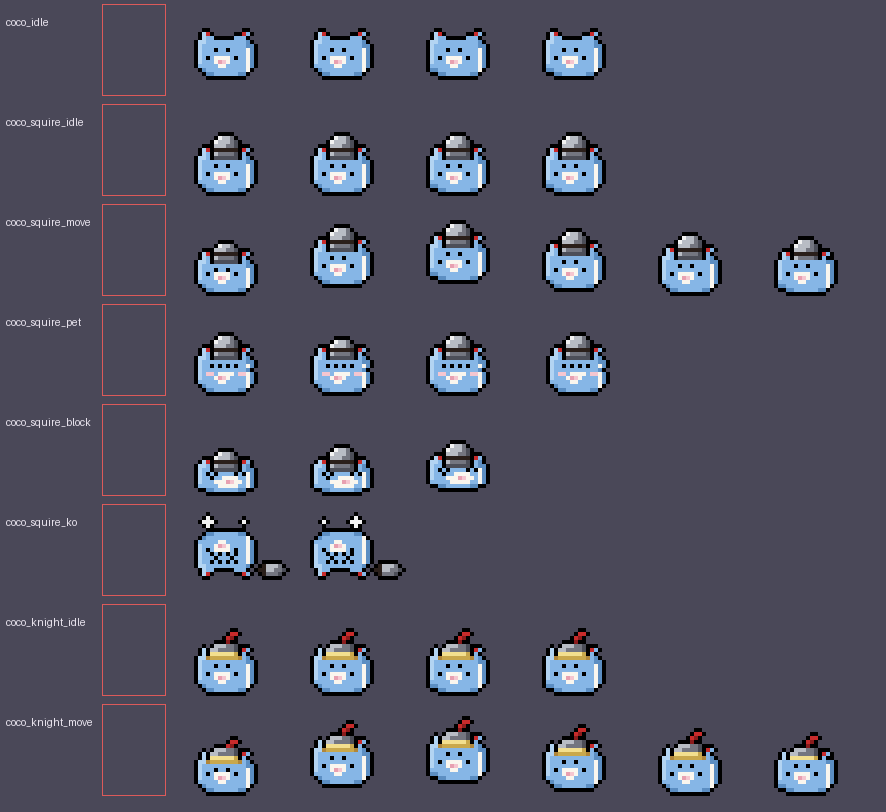
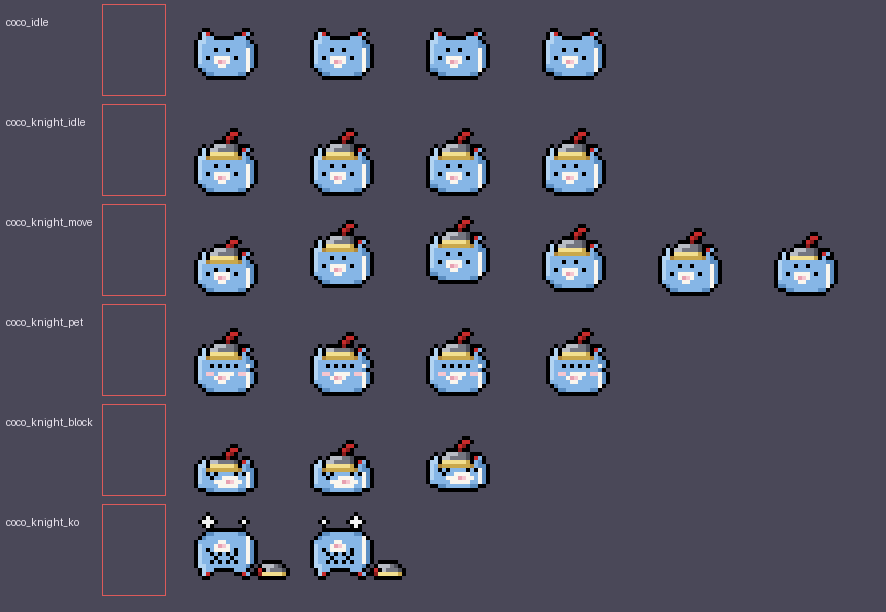
Coco wears the gold knight helmet for every Junkan form (user); pot helmet removed

diff --git a/tools/make_art.py b/tools/make_art.py
@@ -188,10 +188,6 @@ def gun_and_items():
     for clip, frames in (('idle', V4.COCO_KNIGHT_IDLE), ('move', V4.COCO_KNIGHT_MOVE), ('pet', V4.COCO_KNIGHT_PET),
                          ('block', V4.COCO_KNIGHT_BLOCK), ('ko', V4.COCO_KNIGHT_KO)):
         write_clip(os.path.join(comp, 'knight_' + clip), margin(frames), 'coco_knight_' + clip, body=True)
-    # 2.16.3 Squire pot helmet (Ser Junkan below Holy Knight), same swap
-    for clip, frames in (('idle', V4.COCO_SQUIRE_IDLE), ('move', V4.COCO_SQUIRE_MOVE), ('pet', V4.COCO_SQUIRE_PET),
-                         ('block', V4.COCO_SQUIRE_BLOCK), ('ko', V4.COCO_SQUIRE_KO)):
-        write_clip(os.path.join(comp, 'squire_' + clip), margin(frames), 'coco_squire_' + clip, body=True)
     save(V4.SQUEAKER_ICON, os.path.join(items, 'squeaker_icon.png'))
     vfx = os.path.join(RES, 'VFX')
     clean(vfx)
@@ -235,12 +231,11 @@ def previews():
            [U.HAIRBALL] + V4.COCO_IDLE[:2] + V4.COCO_MOVE + [V4.BOWL_PICKUP] + V4.FUR_PUFF + V4.LOVE_BURST + U.FOYER_APPEAR,
            V5.FUR_HALO + [V5.PUFFED_ICON] + V5.ANGER_MARKS],
           os.path.join(PREVIEW, 'ui-sheet.png'), scale=5)
-    # Coco's Squire helmets: plain / pot helmet (below Holy Knight) / gold plumed helmet, runtime outline simulated
-    V.strip_sheet([('coco_idle', V4.COCO_IDLE), ('coco_squire_idle', V4.COCO_SQUIRE_IDLE), ('coco_squire_move', V4.COCO_SQUIRE_MOVE),
-                   ('coco_squire_pet', V4.COCO_SQUIRE_PET), ('coco_squire_block', V4.COCO_SQUIRE_BLOCK), ('coco_squire_ko', V4.COCO_SQUIRE_KO),
-                   ('coco_knight_idle', V4.COCO_KNIGHT_IDLE), ('coco_knight_move', V4.COCO_KNIGHT_MOVE)],
+    # Coco with Ser Junkan (Squire): plain / gold plumed knight helmet, runtime outline simulated
+    V.strip_sheet([('coco_idle', V4.COCO_IDLE), ('coco_knight_idle', V4.COCO_KNIGHT_IDLE), ('coco_knight_move', V4.COCO_KNIGHT_MOVE),
+                   ('coco_knight_pet', V4.COCO_KNIGHT_PET), ('coco_knight_block', V4.COCO_KNIGHT_BLOCK), ('coco_knight_ko', V4.COCO_KNIGHT_KO)],
                   os.path.join(PREVIEW, 'coco-helmets.png'), scale=4)
-    V.scale_check([V4.COCO_IDLE_1, V4.SQUIRE_IDLE_1, V4.KNIGHT_IDLE_1], os.path.join(PREVIEW, 'coco-helmets-scale.png'))
+    V.scale_check([V4.COCO_IDLE_1, V4.KNIGHT_IDLE_1], os.path.join(PREVIEW, 'coco-helmets-scale.png'))
     import weapon_preview   # weapon alignment sheets (grip, muzzle, aim, reach) from tools/weapon_layout.py
     weapon_preview.main()
 

diff --git a/tools/art_v4.py b/tools/art_v4.py
@@ -402,51 +402,3 @@ COCO_KNIGHT_PET = [KNIGHT_PET_1, squash(KNIGHT_PET_1, 0.92), KNIGHT_PET_1, _shif
 COCO_KNIGHT_BLOCK = [squash(KNIGHT_BLOCK_1, 0.9), KNIGHT_BLOCK_1, _shift_strict(KNIGHT_BLOCK_1, 0, -1)]
 # knocked out: the helmet came off and lies beside him (24 x 16)
 COCO_KNIGHT_KO = [_overlay_strict(_pad_strict(COCO_KO[i], 24, 16, 0, 0), HELMET_DOWN, 15, 11) for i in range(2)]
-
-
-# ---------------------------------------------------------------- 2.16.3 Squire: Ser Junkan's pot helmet below Holy Knight
-# Vanilla Ser Junkan (Peasant to Knight Commander) wears a grey tin pot with a dark visor slit; Coco gets the same pot
-# while Squire is active, and the gold plumed HELMET above from Holy Knight up. Same 17 x 20 canvas, anchor and
-# transforms as the knight set, so the two swap cleanly. 8 x 7, centred so both ears stay out: dome, highlight top-left, visor slit ('9', the darkest
-# shared colour), dark rim; the bottom row sits on the drawing's row 3 between the ears. Tin S -> Z -> z, glint K.
-POT_HELMET = R([
-"..oooo..",
-".oKSSZo.",
-"oKSSSZzo",
-"oSSSZZzo",
-"o999999o",
-"oSZZZZzo",
-"ozzzzzzo",
-])
-# knocked off: the pot on its side, opening (dark) to the left (9 x 5)
-POT_HELMET_DOWN = R([
-"..ooooo..",
-".o9SSSZo.",
-"o99SSZZzo",
-".o9ZZZzo.",
-"..ooooo..",
-])
-
-
-def _squire(drawing, head_dy=0):
-    c = _pad_strict(drawing, KNIGHT_W, KNIGHT_H, 0, KNIGHT_TOP)
-    return _overlay_strict(c, POT_HELMET, 4, KNIGHT_TOP - 3 + head_dy)
-
-
-SQUIRE_IDLE_1 = _squire(COCO_IDLE_1)
-SQUIRE_IDLE_2 = _squire(COCO_IDLE_2)
-SQUIRE_PET_1 = _squire(COCO_PET_1)
-SQUIRE_BLOCK_1 = _squire(COCO_BLOCK_1, head_dy=3)
-
-COCO_SQUIRE_IDLE = [SQUIRE_IDLE_1, SQUIRE_IDLE_1, SQUIRE_IDLE_2, SQUIRE_IDLE_2]
-COCO_SQUIRE_MOVE = [
-    squash(SQUIRE_IDLE_1, 0.85),
-    _shift_strict(SQUIRE_IDLE_1, 0, -2),
-    _shift_strict(SQUIRE_IDLE_2, 0, -3),
-    _shift_strict(SQUIRE_IDLE_1, 0, -1),
-    SQUIRE_IDLE_1,
-    squash(SQUIRE_IDLE_2, 0.9),
-]
-COCO_SQUIRE_PET = [SQUIRE_PET_1, squash(SQUIRE_PET_1, 0.92), SQUIRE_PET_1, _shift_strict(SQUIRE_PET_1, 1, 0)]
-COCO_SQUIRE_BLOCK = [squash(SQUIRE_BLOCK_1, 0.9), SQUIRE_BLOCK_1, _shift_strict(SQUIRE_BLOCK_1, 0, -1)]
-COCO_SQUIRE_KO = [_overlay_strict(_pad_strict(COCO_KO[i], 24, 16, 0, 0), POT_HELMET_DOWN, 15, 11) for i in range(2)]

diff --git a/tools/lint_art.py b/tools/lint_art.py
@@ -34,7 +34,6 @@ AIRBORNE = {
     'ghost_idle_left': ALL, 'ghost_idle_right': ALL, 'ghost_sneeze_left': ALL, 'ghost_sneeze_right': ALL,
     'death_coop': ALL, 'death': {5}, 'death_shot': {4}, 'item_get': {1}, 'select_choose': {1}, 'stretch': ALL,
     'coco_move': {1, 2, 3}, 'coco_block': {2}, 'coco_knight_move': {1, 2, 3}, 'coco_knight_block': {2},
-    'coco_squire_move': {1, 2, 3}, 'coco_squire_block': {2},
     'pet': {1}, 'slide_right': ALL, 'slide_up': ALL, 'slide_down': ALL, 'chest_recover': set(),
 }
 # clips where repeated frames are intentional holds
@@ -43,7 +42,7 @@ HOLDS = {'death', 'death_shot', 'item_get', 'chest_recover', 'select_choose', 'k
          'slide_up', 'slide_down', 'stretch', 'ghost_sneeze_left', 'ghost_sneeze_right', 'timefall', 'spinfall',
          'dodge', 'dodge_bw', 'dodge_left', 'dodge_left_bw', 'death_coop', 'tablekick_right', 'jetpack_down',
          'jetpack_right', 'jetpack_right_bw', 'jetpack_up', 'doorway', 'idle', 'idle_forward', 'idle_backward', 'idle_bw',
-         'select_idle', 'groom', 'coco_idle', 'coco_knight_idle', 'coco_squire_idle'}
+         'select_idle', 'groom', 'coco_idle', 'coco_knight_idle'}
 
 
 def bbox(f):
@@ -122,9 +121,7 @@ def main():
     plain = {'coco_idle': V4.COCO_IDLE, 'coco_move': V4.COCO_MOVE, 'coco_pet': V4.COCO_PET, 'coco_block': V4.COCO_BLOCK}
     e4, w4 = lint(plain, V4.COCO_W, V4.COCO_H, V4.COCO_H - 2, label='companion/')
     knight = {'coco_knight_idle': V4.COCO_KNIGHT_IDLE, 'coco_knight_move': V4.COCO_KNIGHT_MOVE,
-              'coco_knight_pet': V4.COCO_KNIGHT_PET, 'coco_knight_block': V4.COCO_KNIGHT_BLOCK,
-              'coco_squire_idle': V4.COCO_SQUIRE_IDLE, 'coco_squire_move': V4.COCO_SQUIRE_MOVE,
-              'coco_squire_pet': V4.COCO_SQUIRE_PET, 'coco_squire_block': V4.COCO_SQUIRE_BLOCK}
+              'coco_knight_pet': V4.COCO_KNIGHT_PET, 'coco_knight_block': V4.COCO_KNIGHT_BLOCK}
     e3, w3 = lint(knight, V4.KNIGHT_W, V4.KNIGHT_H, V4.KNIGHT_H - 2, label='companion/')
     errors, warnings = e1 + e2 + e3 + e4, w1 + w2 + w3 + w4
     for w in warnings:

diff --git a/PlutoTheCat/src/CocoBlueItem.cs b/PlutoTheCat/src/CocoBlueItem.cs
@@ -65,9 +65,9 @@ namespace PlutoTheCat
             prefab.AddAnimation("ko", Plugin.COMPANION_ROOT + "/ko", 4, CompanionBuilder.AnimationType.Other,
                 DirectionalAnimation.DirectionType.Single).wrapMode = tk2dSpriteAnimationClip.WrapMode.Loop;
 
-            // Squire helmets: pot helmet (squire_) below Holy Knight, gold plumed helmet (knight_) from Holy Knight up.
+            // Squire: the gold plumed knight helmet (knight_) for every Junkan form.
             // Like Ser Junkan's armour clips, these are swapped in by name (SetHelmet).
-            foreach (string helmet in new[] { "squire_", "knight_" })
+            foreach (string helmet in new[] { "knight_" })
             {
                 AddHelmetClip(helmet, "idle", 4, tk2dSpriteAnimationClip.WrapMode.Loop);
                 AddHelmetClip(helmet, "move", 9, tk2dSpriteAnimationClip.WrapMode.Loop);
@@ -147,7 +147,7 @@ namespace PlutoTheCat
             private string helmet = "";
 
             /// <summary>
-            /// Squire: point the idle/move/pet/block/ko slots at a helmeted clip set ("squire_" pot helmet, "knight_" gold
+            /// Squire: point the idle/move/pet/block/ko slots at the helmeted clip set ("knight_", the gold plumed
             /// helmet) or back to the plain clips (""), like Junkan swaps his armour clips.
             /// </summary>
             public void SetHelmet(string prefix)

diff --git a/tools/tests/companion_kit_cases.cs b/tools/tests/companion_kit_cases.cs
@@ -74,9 +74,9 @@ class CompanionKitCases
         Check(!CompanionKitRules.NeedsNewDecoyLeg(true, 2f, 0.5f, 1f, 3f, 2f), "a slightly better leg does not cause jitter");
         // Squire helmet: grey pot helmet for every Junkan form below Holy Knight, the gold plumed helmet from Holy Knight up.
         Check(CompanionKitRules.CocoHelmetPrefix(false, 7) == "", "no Squire: no helmet");
-        Check(CompanionKitRules.CocoHelmetPrefix(true, 0) == "squire_", "Peasant Junkan: pot helmet");
-        Check(CompanionKitRules.CocoHelmetPrefix(true, 5) == "squire_", "Knight Commander: pot helmet");
-        Check(CompanionKitRules.CocoHelmetPrefix(true, 6) == "knight_" && CompanionKitRules.CocoHelmetPrefix(true, 7) == "knight_", "Holy and Angelic Knight: gold helmet");
+        Check(CompanionKitRules.CocoHelmetPrefix(true, 0) == "knight_", "Peasant Junkan: knight helmet");
+        Check(CompanionKitRules.CocoHelmetPrefix(true, 5) == "knight_", "Knight Commander: knight helmet");
+        Check(CompanionKitRules.CocoHelmetPrefix(true, 6) == "knight_" && CompanionKitRules.CocoHelmetPrefix(true, 7) == "knight_", "Holy and Angelic Knight: knight helmet");
         Check(CompanionKitRules.CocoHelmetPrefix(true, 8) == "knight_", "Mecha Junkan: gold helmet");
         Console.WriteLine(count + " companion behavior cases passed");
     }

diff --git a/PlutoTheCat/src/CocoFriends.cs b/PlutoTheCat/src/CocoFriends.cs
@@ -13,8 +13,8 @@ namespace PlutoTheCat
     ///   Petting either one makes the other happy too.
     /// - Squire (Coco + Ser Junkan): +1 stuffing per Junkan form (CocoBlueController.MaxStuffing); while Coco
     ///   is a decoy, Junkan's OverrideTarget (which wins over PlayerTarget) is the enemy chasing him.
-    /// - Squire helmet: while Squire is active Coco wears a helmet like Junkan's: the grey pot helmet below Holy Knight,
-    ///   the gold plumed helmet (Knighted) from Holy Knight up; it comes off when the synergy ends.
+    /// - Squire helmet: while Squire is active Coco wears the gold plumed knight helmet, whatever Junkan's form;
+    ///   it comes off when the synergy ends.
     /// Ownership: every field changed on the Dog or Junkan is restored to what it was before, and only while the
     /// value is still the one this code (or the Wolf behaviours it added) left there (CompanionOwnedValue).
     /// </summary>

diff --git a/tools/validate.py b/tools/validate.py
@@ -183,8 +183,7 @@ for f in ['coco_blue_icon.png', 'kibble_bowl_001.png', 'kibble_bowl_002.png']:
     if not os.path.exists(os.path.join(items, f)):
         err(f'item art missing: {f}')
 for sub, n in (('idle', 4), ('move', 6), ('pet', 4), ('block', 3), ('ko', 2),
-               ('knight_idle', 4), ('knight_move', 6), ('knight_pet', 4), ('knight_block', 3), ('knight_ko', 2),
-               ('squire_idle', 4), ('squire_move', 6), ('squire_pet', 4), ('squire_block', 3), ('squire_ko', 2)):
+               ('knight_idle', 4), ('knight_move', 6), ('knight_pet', 4), ('knight_block', 3), ('knight_ko', 2)):
     d = os.path.join(RES, 'Companions', 'coco', sub)
     if not os.path.isdir(d) or len([f for f in os.listdir(d) if f.endswith('.png')]) != n:
         err(f'companion clip {sub} should have {n} frames')

diff --git a/PlutoTheCat/src/CompanionKitRules.cs b/PlutoTheCat/src/CompanionKitRules.cs
@@ -125,11 +125,10 @@ namespace PlutoTheCat
             return legThreat > bestAlternative + DecoySwerveMargin;
         }
 
-        /// <summary>Squire helmet clip prefix: none without Squire, pot helmet below Holy Knight, gold helmet from Holy Knight (6) up.</summary>
+        /// <summary>Squire helmet clip prefix: the gold plumed knight helmet for every Junkan form, none without Squire.</summary>
         public static string CocoHelmetPrefix(bool squire, int junkanForm)
         {
-            if (!squire) return "";
-            return junkanForm >= 6 ? "knight_" : "squire_";
+            return squire ? "knight_" : "";
         }
 
         private static float Distance(float ax, float ay, float bx, float by)
